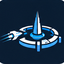
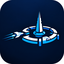
Polish Dockspire branding and navigation

diff --git a/web/index.html b/web/index.html
@@ -6,7 +6,7 @@
   <title>Dockspire · Container management</title>
   <meta name="description" content="Dockspire — Dock. Deploy. Manage. Your container management workspace.">
   <meta name="theme-color" content="#0B1F3B">
-  <link rel="icon" href="/favicon.ico" sizes="any">
+  <link rel="icon" href="/brand/dockspire-icon-256.png" type="image/png" sizes="1254x1254">
   <link rel="apple-touch-icon" href="/brand/dockspire-icon-256.png">
   <link rel="stylesheet" href="/style.css">
   <script src="/app.js" defer></script>
@@ -16,16 +16,17 @@
 </head>
 <body>
   <aside class="sidebar">
-    <a class="brand" href="#dashboard" aria-label="Dockspire dashboard"><img class="brand-mark" src="/brand/dockspire-icon-64.png" srcset="/brand/dockspire-icon-128.png 2x" width="44" height="44" alt=""><span class="brand-copy"><span class="brand-wordmark">Dock<span>spire</span></span><small>DOCK. DEPLOY. MANAGE.</small></span></a>
+    <a class="brand" href="#dashboard" aria-label="Dockspire dashboard"><img class="brand-mark" src="/brand/dockspire-icon-256.png" width="44" height="44" alt=""><span class="brand-copy"><span class="brand-wordmark">Dock<span>spire</span></span><small>DOCK. DEPLOY. MANAGE.</small></span></a>
     <div class="nav-label">WORKSPACE</div>
     <nav aria-label="Main navigation">
-      <a href="#dashboard" data-view="dashboard"><span aria-hidden="true">◫</span> Dashboard</a>
-      <a href="#stacks" data-view="stacks"><span aria-hidden="true">▤</span> Stacks <span class="nav-count" id="count-stacks">—</span></a>
-      <a href="#containers" data-view="containers"><span aria-hidden="true">▣</span> Containers <span class="nav-count" id="count-containers">—</span></a>
-      <a href="#images" data-view="images"><span aria-hidden="true">◇</span> Images</a>
-      <a href="#networks" data-view="networks"><span aria-hidden="true">⌘</span> Networks</a>
-      <a href="#volumes" data-view="volumes"><span aria-hidden="true">▱</span> Volumes</a>
-      <a href="#system" data-view="system"><span aria-hidden="true">⚙</span> Docker</a>
+      <!-- Lucide 0.468.0 geometry; ISC/Feather MIT notices: licenses/lucide-LICENSE. -->
+      <a href="#dashboard" data-view="dashboard"><svg class="nav-icon" xmlns="http://www.w3.org/2000/svg" width="20" height="20" viewBox="0 0 24 24" fill="none" stroke="currentColor" stroke-width="2" stroke-linecap="round" stroke-linejoin="round" aria-hidden="true" focusable="false"><rect width="7" height="9" x="3" y="3" rx="1"/><rect width="7" height="5" x="14" y="3" rx="1"/><rect width="7" height="9" x="14" y="12" rx="1"/><rect width="7" height="5" x="3" y="16" rx="1"/></svg> Dashboard</a>
+      <a href="#stacks" data-view="stacks"><svg class="nav-icon" xmlns="http://www.w3.org/2000/svg" width="20" height="20" viewBox="0 0 24 24" fill="none" stroke="currentColor" stroke-width="2" stroke-linecap="round" stroke-linejoin="round" aria-hidden="true" focusable="false"><path d="M12.83 2.18a2 2 0 0 0-1.66 0L2.6 6.08a1 1 0 0 0 0 1.83l8.58 3.91a2 2 0 0 0 1.66 0l8.58-3.9a1 1 0 0 0 0-1.83z"/><path d="M2 12a1 1 0 0 0 .58.91l8.6 3.91a2 2 0 0 0 1.65 0l8.58-3.9A1 1 0 0 0 22 12"/><path d="M2 17a1 1 0 0 0 .58.91l8.6 3.91a2 2 0 0 0 1.65 0l8.58-3.9A1 1 0 0 0 22 17"/></svg> Stacks <span class="nav-count" id="count-stacks">—</span></a>
+      <a href="#containers" data-view="containers"><svg class="nav-icon" xmlns="http://www.w3.org/2000/svg" width="20" height="20" viewBox="0 0 24 24" fill="none" stroke="currentColor" stroke-width="2" stroke-linecap="round" stroke-linejoin="round" aria-hidden="true" focusable="false"><path d="M22 7.7c0-.6-.4-1.2-.8-1.5l-6.3-3.9a1.72 1.72 0 0 0-1.7 0l-10.3 6c-.5.2-.9.8-.9 1.4v6.6c0 .5.4 1.2.8 1.5l6.3 3.9a1.72 1.72 0 0 0 1.7 0l10.3-6c.5-.3.9-1 .9-1.5Z"/><path d="M10 21.9V14L2.1 9.1"/><path d="m10 14 11.9-6.9"/><path d="M14 19.8v-8.1"/><path d="M18 17.5V9.4"/></svg> Containers <span class="nav-count" id="count-containers">—</span></a>
+      <a href="#images" data-view="images"><svg class="nav-icon" xmlns="http://www.w3.org/2000/svg" width="20" height="20" viewBox="0 0 24 24" fill="none" stroke="currentColor" stroke-width="2" stroke-linecap="round" stroke-linejoin="round" aria-hidden="true" focusable="false"><path d="M11 21.73a2 2 0 0 0 2 0l7-4A2 2 0 0 0 21 16V8a2 2 0 0 0-1-1.73l-7-4a2 2 0 0 0-2 0l-7 4A2 2 0 0 0 3 8v8a2 2 0 0 0 1 1.73z"/><path d="M12 22V12"/><path d="m3.3 7 7.703 4.734a2 2 0 0 0 1.994 0L20.7 7"/><path d="m7.5 4.27 9 5.15"/></svg> Images</a>
+      <a href="#networks" data-view="networks"><svg class="nav-icon" xmlns="http://www.w3.org/2000/svg" width="20" height="20" viewBox="0 0 24 24" fill="none" stroke="currentColor" stroke-width="2" stroke-linecap="round" stroke-linejoin="round" aria-hidden="true" focusable="false"><rect x="16" y="16" width="6" height="6" rx="1"/><rect x="2" y="16" width="6" height="6" rx="1"/><rect x="9" y="2" width="6" height="6" rx="1"/><path d="M5 16v-3a1 1 0 0 1 1-1h12a1 1 0 0 1 1 1v3"/><path d="M12 12V8"/></svg> Networks</a>
+      <a href="#volumes" data-view="volumes"><svg class="nav-icon" xmlns="http://www.w3.org/2000/svg" width="20" height="20" viewBox="0 0 24 24" fill="none" stroke="currentColor" stroke-width="2" stroke-linecap="round" stroke-linejoin="round" aria-hidden="true" focusable="false"><line x1="22" x2="2" y1="12" y2="12"/><path d="M5.45 5.11 2 12v6a2 2 0 0 0 2 2h16a2 2 0 0 0 2-2v-6l-3.45-6.89A2 2 0 0 0 16.76 4H7.24a2 2 0 0 0-1.79 1.11z"/><line x1="6" x2="6.01" y1="16" y2="16"/><line x1="10" x2="10.01" y1="16" y2="16"/></svg> Volumes</a>
+      <a href="#system" data-view="system"><svg class="nav-icon" xmlns="http://www.w3.org/2000/svg" width="20" height="20" viewBox="0 0 24 24" fill="none" stroke="currentColor" stroke-width="2" stroke-linecap="round" stroke-linejoin="round" aria-hidden="true" focusable="false"><rect width="20" height="8" x="2" y="2" rx="2" ry="2"/><rect width="20" height="8" x="2" y="14" rx="2" ry="2"/><line x1="6" x2="6.01" y1="6" y2="6"/><line x1="6" x2="6.01" y1="18" y2="18"/></svg> Docker</a>
     </nav>
     <div class="sidebar-footer"><span class="connection-dot"></span> Docker workspace<small>Local access</small></div>
   </aside>

diff --git a/web/style.css b/web/style.css
@@ -109,3 +109,49 @@ a:focus-visible, button:focus-visible, input:focus-visible, select:focus-visible
 .system-card table { margin: 16px 0; }
 @media (max-width: 760px) { .system-checks { grid-template-columns: 1fr; } }
 @media (max-width: 900px) { .heading-row { align-items: flex-start; } .heading-actions { max-width: 240px; } #stack-actions { display: flex; gap: 8px; flex-wrap: wrap; } }
+
+/* Use the supplied transparent mark without clipping or a backing tile. */
+.brand-mark { border-radius: 0; object-fit: contain; }
+.brand small { font-size: 9px; letter-spacing: .7px; }
+.nav-label { color: var(--muted); }
+.connection-dot { background: var(--muted); }
+.button { min-height: 40px; }
+.cell-secondary, .badge, .host-row dt, .page-footer { font-size: 11px; }
+.login-card .brand { gap: 14px; }
+.login-card .brand-mark { width: 56px; height: 56px; }
+.login-card .brand .brand-copy { display: block; }
+.login-card .brand-wordmark { font-size: 30px; }
+.button.warning { color: #f0ce85; background: #423721; border-color: #9a783c; }
+.button.warning:hover { background: #59482a; }
+.button.danger { color: #ffced1; background: #492b31; border-color: #a45e69; }
+.button.danger:hover { background: #623640; }
+
+@media (max-width: 760px) {
+  /* Keep navigation labels visible without taking width from the workspace. */
+  .sidebar { position: static; width: auto; padding: 16px; border-right: 0; border-bottom: 1px solid var(--line); }
+  .sidebar .brand { padding: 0 0 16px; }
+  .sidebar .brand > span:last-child { display: block; }
+  .sidebar nav { display: flex; gap: 6px; overflow-x: auto; padding: 4px 4px 10px; }
+  .sidebar nav a { flex: none; font-size: 13px; gap: 8px; padding: 10px 12px; min-height: 44px; }
+  body > main { margin-left: 0; }
+  .topbar { height: auto; min-height: 64px; padding: 12px 16px; flex-wrap: wrap; gap: 12px; }
+  .topbar .heading-actions { max-width: none; }
+  .heading-row { flex-direction: column; align-items: stretch; gap: 16px; }
+  .heading-row > .heading-actions { width: 100%; max-width: none; justify-content: flex-start; }
+  #stack-actions { width: 100%; justify-content: flex-start; }
+  .button { min-height: 44px; }
+  .page-footer { flex-wrap: wrap; gap: 8px; }
+}
+
+/* Fixed Lucide geometry inherits navigation text/active colors. */
+.sidebar nav .nav-icon { display: block; width: 20px; height: 20px; flex: none; }
+
+/* The supplied navy wordmark sits directly on a light setup card. */
+.setup-page .login-card { color-scheme: light; --text: #0b1f3b; --muted: #475569; --accent: #0b5cad; background: #f8fafe; border-color: #c5d3e1; color: var(--text); }
+.setup-page .brand { padding-bottom: 24px; }
+.setup-page .brand-lockup { width: 100%; height: auto; border-radius: 0; }
+.setup-page .form-field { color: #243b53; }
+.setup-page .form-field input { background: #fff; border-color: #7b8da3; color: var(--text); }
+.setup-page .error { background: #fff0f1; border-color: #a34452; color: #8b1c2d; }
+.setup-page .button.primary { background: #0b5cad; border-color: #0b5cad; color: #fff; }
+.setup-page .button.primary:hover { background: #084b8d; border-color: #084b8d; }

diff --git a/web/setup.html b/web/setup.html
@@ -5,14 +5,14 @@
   <meta name="viewport" content="width=device-width, initial-scale=1">
   <title>Administrator setup · Dockspire</title>
   <meta name="theme-color" content="#0B1F3B">
-  <link rel="icon" href="/favicon.ico" sizes="any">
+  <link rel="icon" href="/brand/dockspire-icon-256.png" type="image/png" sizes="1254x1254">
   <link rel="apple-touch-icon" href="/brand/dockspire-icon-256.png">
   <link rel="stylesheet" href="/style.css">
   <script src="/setup.js" defer></script>
 </head>
-<body class="login-page">
+<body class="login-page setup-page">
   <main class="login-card">
-    <a class="brand" href="/setup" aria-label="Dockspire"><img class="brand-lockup" src="/brand/dockspire-horizontal-dark.png" width="692" height="223" alt="Dockspire — Dock. Deploy. Manage."></a>
+    <a class="brand" href="/setup" aria-label="Dockspire"><img class="brand-lockup" src="/brand/dockspire-horizontal-dark.png" width="2172" height="724" alt="Dockspire — Dock. Deploy. Manage."></a>
     <h1>Create administrator</h1>
     <p class="subtitle">Set up your Docker workspace. Complete setup within five minutes of starting Dockspire.</p>
     <form id="setup-form">

diff --git a/web/login.html b/web/login.html
@@ -6,14 +6,14 @@
   <title>Sign in · Dockspire</title>
   <meta name="description" content="Sign in to your Dockspire container management workspace.">
   <meta name="theme-color" content="#0B1F3B">
-  <link rel="icon" href="/favicon.ico" sizes="any">
+  <link rel="icon" href="/brand/dockspire-icon-256.png" type="image/png" sizes="1254x1254">
   <link rel="apple-touch-icon" href="/brand/dockspire-icon-256.png">
   <link rel="stylesheet" href="/style.css">
   <script src="/login.js" defer></script>
 </head>
 <body class="login-page">
   <main class="login-card">
-    <a class="brand" href="/login" aria-label="Dockspire"><img class="brand-lockup" src="/brand/dockspire-horizontal-dark.png" width="692" height="223" alt="Dockspire — Dock. Deploy. Manage."></a>
+    <a class="brand" href="/login" aria-label="Dockspire"><img class="brand-mark" src="/brand/dockspire-icon-256.png" width="56" height="56" alt=""><span class="brand-copy"><span class="brand-wordmark">Dock<span>spire</span></span><small>DOCK. DEPLOY. MANAGE.</small></span></a>
     <h1>Sign in</h1>
     <p class="subtitle">Manage your Docker workspace.</p>
     <form id="login-form">

diff --git a/web/stacks.js b/web/stacks.js
@@ -282,6 +282,7 @@ window.stackUI = (() => {
         if (current !== generation || !dialog.open) return;
         await configurationHistory(name, true, `${result.removed || 0} old configurations removed.`);
       }));
+      clean.className += ' danger';
       clean.disabled = true; confirmation.addEventListener('input', () => { clean.disabled = confirmation.value !== name; });
       body.append(field(`Type ${name} to confirm cleanup`, confirmation), clean);
     });
@@ -350,6 +351,7 @@ window.stackUI = (() => {
       if (current !== generation || !dialog.open) return;
       await watchJob(job);
     }), true);
+    if (plan.kind !== 'start') submit.className = 'button warning';
     submit.disabled = true; confirmation.addEventListener('input', () => { submit.disabled = confirmation.value !== plan.confirmation; }); body.append(submit);
   }
   async function showSaved(name, notice = '') {

diff --git a/docs/BRANDING.md b/docs/BRANDING.md
@@ -1,17 +1,37 @@
 # Dockspire branding
 
-The user-supplied `Dockspire_Brand_Pack.zip` replaces the previous working name, Stacklane, with **Dockspire**. The approved direction is the flat orbital docking station: central blue-and-white spire, segmented docking ring, and spacecraft approaching from the left. The tagline is **DOCK. DEPLOY. MANAGE.**
+The owner-supplied `Dockspire_Fresh_Brand_Pack` provides the current **Dockspire** artwork. The approved direction is the flat orbital docking station: central blue-and-white spire, segmented docking ring, and spacecraft approaching from the left. The tagline is **DOCK. DEPLOY. MANAGE.**
 
 The [asset status](branding/ASSET_LICENSE_NOTES.md) records the supplied artwork’s provenance and limitations. Runtime images are copied directly from the pack without tracing, recoloring, or modifying the motif.
 
 ## Application use
 
-- Login: supplied dark horizontal logo, including the original wordmark and tagline.
-- Sidebar: supplied dark app icon at 44 px (40 px on narrow screens), with a responsive text wordmark. `Dock` is white and `spire` is blue. This uses the existing system font because the package includes no font files.
-- Browser: supplied multi-size ICO favicon and 256 px touch icon. The sidebar uses 64/128 px PNGs for standard/high-density displays.
-- README: matching supplied dark/light horizontal logos.
+- Sidebar: supplied transparent mark at 44 px (40 px on narrow screens).
+- Sign-in: the transparent mark at 56 px, beside the product name and tagline, directly on the dark card.
+- Administrator setup: the exact supplied 2172 × 724 primary horizontal logo on a light setup card, with no separate logo plate or background. Fields, help, errors and keyboard focus use matching light-card colors.
+- Sidebar and sign-in use a responsive HTML wordmark: `Dock` is white and `spire` is blue, with the existing system font because the package includes no font files. The wordmark remains visible on narrow screens.
+- Browser and touch icon: the same transparent PNG, explicitly referenced as PNG rather than ICO.
+- README: transparent mark with a theme-native heading and tagline.
+
+The original 1254 × 1254 `marks/dockspire-mark-transparent.png` is copied without image processing to the compatibility path `web/brand/dockspire-icon-256.png`. Its legacy filename does not describe its native dimensions. Sidebar, sign-in and browser icons use this mark directly without an opaque tile source or high-density tile override. Setup uses the unmodified horizontal primary logo at the compatibility path web/brand/dockspire-horizontal-dark.png; its navy text remains readable on the light card.
 
 Only the exact runtime logo/icon paths, stylesheet, login assets, and minimal health endpoint are public before sign-in. Application pages, scripts, inventory, definitions, and other brand-directory paths retain their existing authentication requirements. Assets are embedded in the Go executable and require no external font/image service or frontend build.
+
+## Navigation icons
+
+Navigation uses static inline outlines from [Lucide 0.468.0](https://github.com/lucide-icons/lucide/tree/0.468.0/icons). The geometry is unchanged; wrappers use 20 px boxes, a 24-unit viewBox, currentColor strokes, and decorative aria-hidden/focusable attributes. Text labels, active states and keyboard focus remain the navigation interface. No icon script, font, package or external request is needed at runtime.
+
+| Section | Lucide icon |
+| --- | --- |
+| Dashboard | layout-dashboard |
+| Stacks | layers |
+| Containers | container |
+| Images | package |
+| Networks | network |
+| Volumes | hard-drive |
+| Docker | server |
+
+Images represents container image packages, not photographs. The [complete icon notices](../licenses/lucide-LICENSE) retain the pinned release's ISC license and the separately sourced Feather MIT license, including the Feather-derived server icon. These licenses cover the icons, not Dockspire's source or supplied branding.
 
 ## Interface palette
 
@@ -27,7 +47,7 @@ Only the exact runtime logo/icon paths, stylesheet, login assets, and minimal he
 | Main text | `#EDF5FF` |
 | Secondary text | `#A0B1C6` |
 
-These UI choices interpret the suggested palette against the supplied source; they are not claimed to be exact original artwork specifications. Green success/running, amber warning/partial, and red error/unhealthy indicators keep their functional meaning. Keyboard focus uses a visible blue outline. The interface retains its existing dark theme; the supplied light logo is used in documentation.
+These UI choices interpret the suggested palette against the supplied source; they are not claimed to be exact original artwork specifications. Green success/running, amber warning/partial, and red error/unhealthy indicators keep their functional meaning. Keyboard focus uses a visible blue outline. The interface retains its existing dark theme; transparent artwork sits directly on that surface.
 
 ## Compatibility
 
@@ -39,4 +59,4 @@ Dockspire currently focuses on Compose stacks. Multi-host management is planned;
 
 ## Asset limitations
 
-The supplied artwork consists of raster crops with original backgrounds and possible edge/shadow artifacts. There is no vector master or bundled font. The original ICO remains the favicon prototype; any future vector redraw or simplified small-size mark should be reviewed against the approved concept. See the original asset notes for provenance; no trademark or domain clearance is represented.
+The supplied artwork is raster-based; there is no vector master or bundled font. Earlier tile icons and the legacy ICO remain in the repository for compatibility/history but are not referenced by active application branding. Any future vector redraw should be reviewed against the approved concept. See the asset notes for provenance; no trademark or domain clearance is represented.

diff --git a/docs/branding/ASSET_LICENSE_NOTES.md b/docs/branding/ASSET_LICENSE_NOTES.md
@@ -1,2 +1,6 @@
 # Asset status
 These generated graphics are concept art supplied for the Dockspire project. No trademark clearance or name/domain availability is represented here. This package does not contain font files. All derivatives are raster assets; no SVG/vector master is included.
+
+Active product branding uses the owner-supplied Dockspire Fresh Brand Pack without image processing. The sidebar, sign-in page, browser/touch icon and README reference marks/dockspire-mark-transparent.png. Sidebar and sign-in lockups pair it with a readable white/blue HTML product name and tagline. Administrator setup instead displays the exact logos/dockspire-logo-horizontal-primary.png on a light setup card; the logo has no separate backing plate. No opaque tile or rounded mask is applied to active branding.
+
+Existing public asset paths are retained for compatibility: web/brand/dockspire-icon-256.png contains the original 1254 × 1254 transparent mark, and web/brand/dockspire-horizontal-dark.png contains the original 2172 × 724 primary horizontal logo with navy text. Its legacy filename does not describe its required light surface. Earlier dark 64/128 px tile icons, the legacy ICO and earlier documentation assets remain historical assets. Navigation icon provenance and complete ISC/Feather MIT notices are recorded separately in docs/BRANDING.md and licenses/lucide-LICENSE.

diff --git a/README.md b/README.md
@@ -2,10 +2,9 @@
 
 `main` contains the complete maintained source, tests, CI and release tooling. Installation uses a minimal runtime image; contributor files are not shipped in that image.
 
-<picture>
-  <source media="(prefers-color-scheme: dark)" srcset="web/brand/dockspire-horizontal-dark.png">
-  <img src="docs/branding/dockspire-horizontal-light.png" alt="Dockspire — Dock. Deploy. Manage." width="560">
-</picture>
+<img src="web/brand/dockspire-icon-256.png" alt="Dockspire mark" width="96">
+
+Dock. Deploy. Manage.
 
 Docker and Compose management for self-hosted Linux servers. Dockspire provides live inventory, container diagnostics, a saved Compose stack library, reviewed deployments and updates, configuration history, and portable backups.
 
